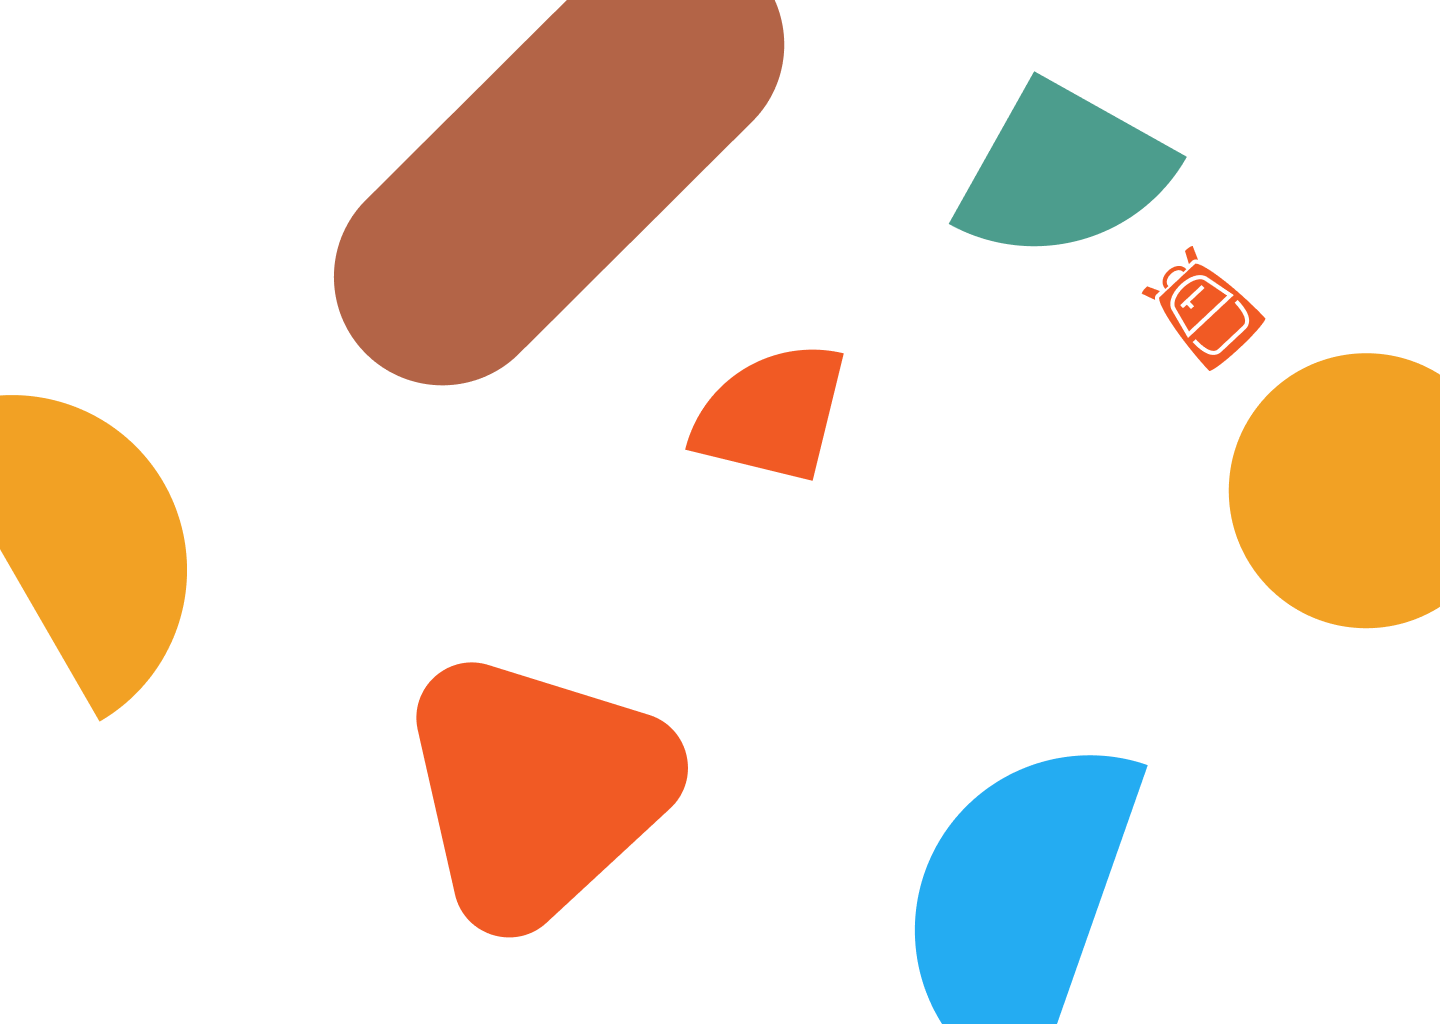
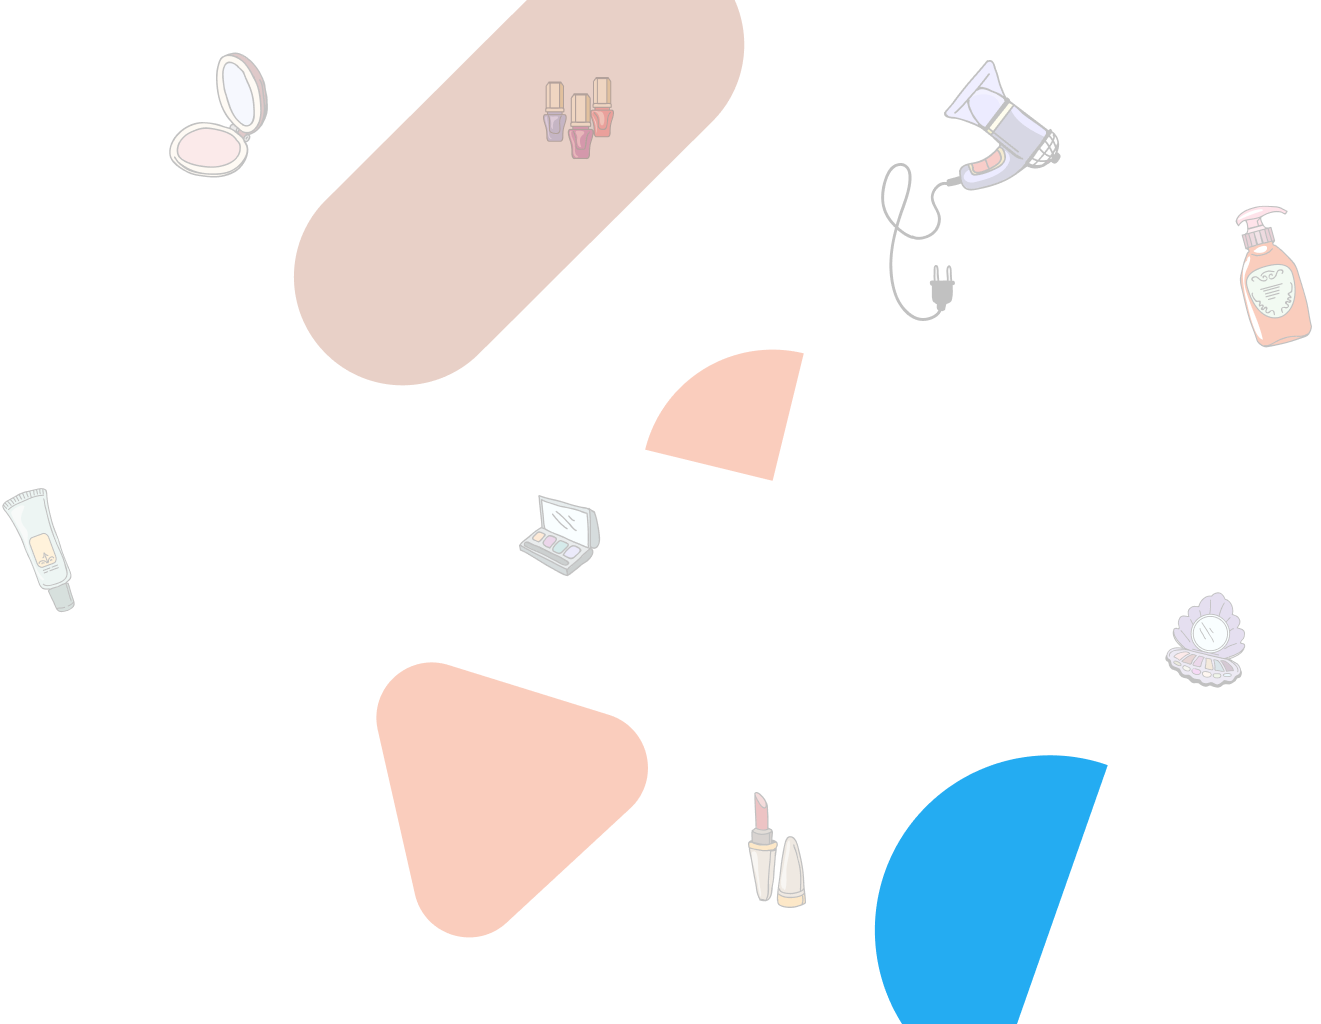
first upload

diff --git a/src/Website/Auth/Register/Register.js b/src/Website/Auth/Register/Register.js
@@ -1,22 +1,28 @@
 import React, { useState } from "react";
-import "./Login.css";
 import logo from "../../../images/register-logo.svg";
 import { Link } from "react-router-dom";
 import { MdOutlineRemoveRedEye } from "react-icons/md";
 import { IoEyeOffOutline } from "react-icons/io5";
 import google from '../../../images/google.svg'
 import facebook from '../../../images/facebook.svg'
-const Login = () => {
+import Logo from "../../../components/Logo/Logo";
+const Register = () => {
   const [hidePass, setHidePass] = useState(true);
   return (
     <div className="Login">
-      <div className="main">
-        <form className="form-box">
+      <div className="main register">
+        <div className="logo">
+          <Logo/>
+        </div>
+        <form className="form-box" >
           <h2>Welcome back</h2>
           <p>Enter your email and password to login to your account.</p>
           <div className="inputs">
             <div className="input">
-              <input type="text" placeholder="Email Address" />
+              <input type="text" placeholder="User name" />
+            </div>
+            <div className="input">
+              <input type="email" placeholder="Email Address" />
             </div>
             <div className="input">
               <input
@@ -35,15 +41,31 @@ const Login = () => {
                 />
               )}
             </div>
+            <div className="input">
+              <input
+                type={hidePass ? "password" : "text"}
+                placeholder="confirm Password "
+              />
+              {hidePass ? (
+                <IoEyeOffOutline
+                  className="icon"
+                  onClick={() => setHidePass((prev) => !prev)}
+                />
+              ) : (
+                <MdOutlineRemoveRedEye
+                  className="icon"
+                  onClick={() => setHidePass((prev) => !prev)}
+                />
+              )}
+            </div>
           </div>
           <div className="options">
-            <div className="flex">
+            <div className="flex mt-1">
               <input type="checkbox" name="remmember" id="remmember" />
-              <label htmlFor="remmember">Remember me</label>
+              <label htmlFor="remmember">agree <span>terms & condition</span></label>
             </div>
-            <Link className="link">Forget password</Link>
           </div>
-          <button type="submit">Log in</button>
+          <button type="submit">Sign in</button>
           <p className="seperator">- Or log in with -</p>
           <div className="providers">
             <Link className="link">
@@ -62,7 +84,7 @@ const Login = () => {
         <div className="content">
           <img src={logo} alt="juba" loading="lazy" />
           <h2>
-            Welcome to <br />
+          Sign up to <br />
             Juba academy
           </h2>
           <p>
@@ -75,4 +97,4 @@ const Login = () => {
   );
 };
 
-export default Login;
+export default Register;

diff --git a/src/Website/Auth/Login/Login.js b/src/Website/Auth/Login/Login.js
@@ -1,0 +1,82 @@
+import React, { useState } from "react";
+import "./Login.css";
+import logo from "../../../images/register-logo.svg";
+import { Link } from "react-router-dom";
+import { MdOutlineRemoveRedEye } from "react-icons/md";
+import { IoEyeOffOutline } from "react-icons/io5";
+import google from '../../../images/google.svg'
+import facebook from '../../../images/facebook.svg'
+import Logo from "../../../components/Logo/Logo";
+const Login = () => {
+  const [hidePass, setHidePass] = useState(true);
+  return (
+    <div className="Login">
+      <div className="main">
+        <div className="logo">
+          <Logo/>
+        </div>
+        <form className="form-box">
+          <h2>Welcome back</h2>
+          <p>Enter your email and password to login to your account.</p>
+          <div className="inputs">
+            <div className="input">
+              <input type="email" placeholder="Email Address" />
+            </div>
+            <div className="input">
+              <input
+                type={hidePass ? "password" : "text"}
+                placeholder="Password"
+              />
+              {hidePass ? (
+                <IoEyeOffOutline
+                  className="icon"
+                  onClick={() => setHidePass((prev) => !prev)}
+                />
+              ) : (
+                <MdOutlineRemoveRedEye
+                  className="icon"
+                  onClick={() => setHidePass((prev) => !prev)}
+                />
+              )}
+            </div>
+          </div>
+          <div className="options">
+            <div className="flex">
+              <input type="checkbox" name="remmember" id="remmember" />
+              <label htmlFor="remmember">Remember me</label>
+            </div>
+            <Link className="link">Forget password</Link>
+          </div>
+          <button type="submit">Log in</button>
+          <p className="seperator">- Or log in with -</p>
+          <div className="providers">
+            <Link className="link">
+              <img src={google} alt="google" loading="lazy" />
+              <span>Google</span></Link>
+            <Link className="link">
+              <img src={facebook} alt="facebook" loading="lazy" />
+              <span>Facebook</span></Link>
+          </div>
+          <p className="redirect">
+          Don't have an account? <Link className="link">sign up</Link> 
+          </p>
+        </form>
+
+
+        <div className="content">
+          <img src={logo} alt="juba" loading="lazy" />
+          <h2>
+            Welcome to <br />
+            Juba academy
+          </h2>
+          <p>
+            Lorem ipsum dolor sit amet consectetur. Condimentum aliquam sagittis
+            senectus purus fames.{" "}
+          </p>
+        </div>
+      </div>
+    </div>
+  );
+};
+
+export default Login;

diff --git a/src/Website/Auth/Login/Login.css b/src/Website/Auth/Login/Login.css
@@ -12,13 +12,33 @@
   width: 95%;
   height: 95%;
   margin: auto;
-  background-image: url("../../../images//register.png");
+  background-image: url("../../../images//login.png");
   background-size: 100% 130%;
   background-position: center;
   display: flex;
   justify-content: center;
   align-items: center;
   gap: 100px;
+  position: relative;
+}
+.Login .main.register{
+  background-image: url('../../../images/register.png');
+}
+.Login .main .logo{
+  width: 25%;
+  background-color: #fff;
+  position: absolute;
+  top: 100%; left: 100%;
+  transform: translate(-100%,-100%);
+  display: flex;
+  justify-content: center;
+  align-items: center;
+  padding: 5px;
+  clip-path: polygon(20% 0%, 100% 0%, 100% 100%, 0% 100%);
+}
+.Login .main .logo img{
+  width: 200px;
+  height: 120px;
 }
 .Login .main .content {
   display: flex;
@@ -72,6 +92,9 @@
   gap: 10px;
   width: 100%;
 }
+.Login .main.register .form-box .inputs{
+  margin-top: 20px;
+}
 .Login .main .form-box .input {
   width: 100%;
   position: relative;
@@ -117,6 +140,9 @@
 .Login .main .form-box .options .flex input {
   accent-color: var(--main-color);
 }
+.Login .main .form-box .options span{
+  color: var(--main-color);
+}
 .Login .main .form-box .options .link {
   color: var(--main-color);
   font-size: 0.9rem;
@@ -131,6 +157,10 @@
   margin-top: 20px;
   border-radius: 20px;
   text-decoration: 1px;
+  transition: 0.5s;
+}
+.Login .main .form-box button:hover{
+  box-shadow: 0px 0px 10px var(--main-color);
 }
 .Login .main .form-box .seperator {
   font-size: 0.8rem;

diff --git a/src/App.js b/src/App.js
@@ -1,12 +1,14 @@
 import { Route, Routes } from "react-router-dom";
 import Landing from "./Website/Landing/Landing";
-import Login from "./Website/Auth/Register/Login";
+import Login from "./Website/Auth/Login/Login";
+import Register from "./Website/Auth/Register/Register";
 function App() {
   return (
     <div className="App">
       <Routes>
         <Route path="/" element={<Landing />} />
-        <Route path="/register" element={<Login />} />
+        <Route path="/login" element={<Login />} />
+        <Route path="/register" element={<Register />} />
       </Routes>
     </div>
   );

diff --git a/src/Website/Landing/Landing.js b/src/Website/Landing/Landing.js
@@ -14,7 +14,7 @@ import Footer from '../../components/Footer/Footer';
 const Landing = () => {
   return (
     <div>
-      {/* <NavBar/> */}
+      <NavBar/>
       <Hero/>
       <AboutUs/>
       <WhatweOffer/>
